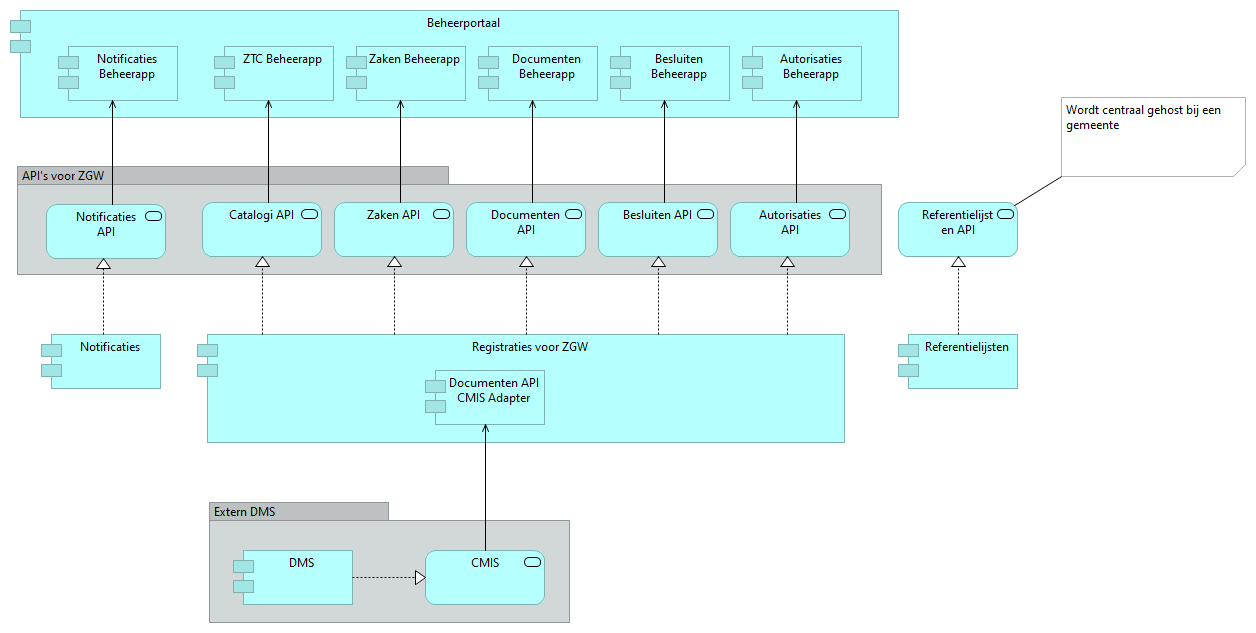
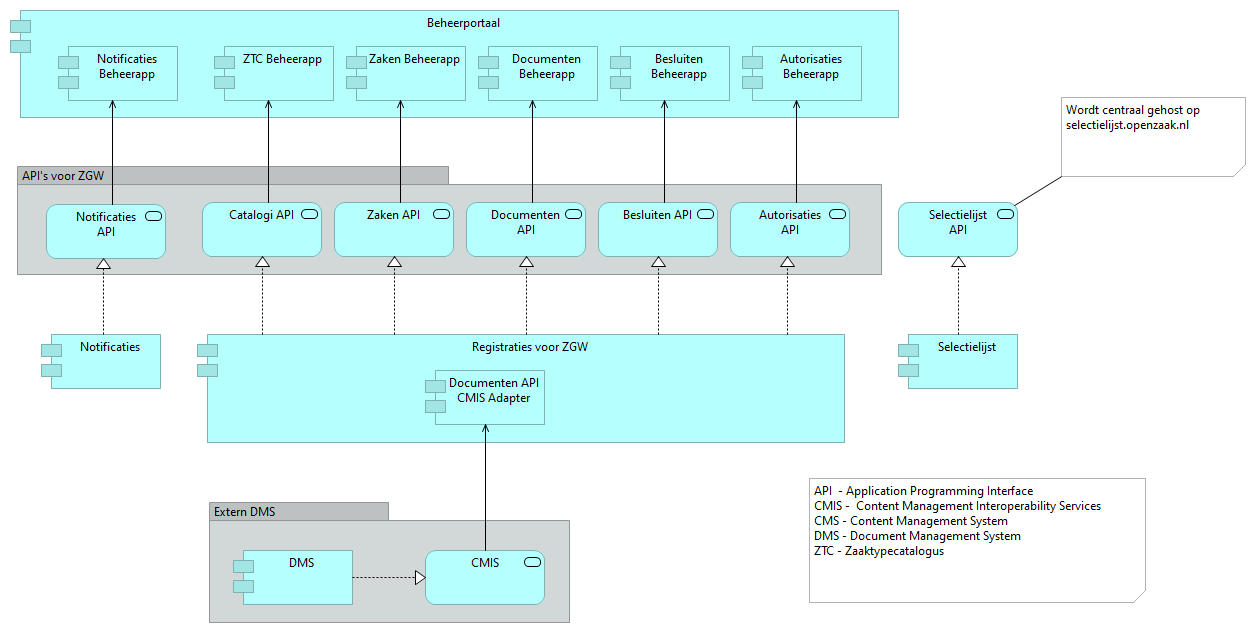
Processed review comments

diff --git a/README.rst b/README.rst
@@ -1,6 +1,7 @@
 =========
-OpenZaak - productiewaardige API's voor Zaakgericht Werken
+Open Zaak
 =========
+*Productiewaardige API's voor Zaakgericht Werken*
 
 :Version: 1.0.1
 :Source: https://github.com/open-zaak/open-zaak
@@ -12,7 +13,7 @@ OpenZaak - productiewaardige API's voor Zaakgericht Werken
 Deze repository bevat broncode en documentatie voor productiewaardige API's voor Zaakgericht Werken (ZGW). Deze API's volgen de standaard van VNG Realisatie "API's voor Zaakgericht Werken".
 
 Zaakgericht Werken
-=========
+==================
 
 Zaakgericht werken is een vorm van procesgericht werken die door de Nederlandse gemeenten, en steeds meer landelijke overheden, wordt toegepast om verzoeken van burgers en bedrijven te behandelen. De zaak staat hierbij centraal. Een zaak is een samenhangende hoeveelheid werk met een gedefinieerde aanleiding en een gedefinieerd resultaat waarvan kwaliteit en doorlooptijd bewaakt moeten worden. De API's voor Zaakgericht Werken ondersteunen de registratie van alle metadata en gegevens die komen kijken bij Zaakgericht Werken. Zie ook `Zaakgericht werken in het gemeentelijk gegevenslandschap`_.
 
@@ -20,7 +21,7 @@ Zaakgericht werken is een vorm van procesgericht werken die door de Nederlandse 
 
 
 Standaard "API's voor Zaakgericht Werken"
-=========
+=========================================
 
 In het kader van Common Ground heeft VNG Realisatie deze standaard ontwikkeld. Daarbij zijn tegelijk met API-specificaties referentie-implementaties gerealiseerd om aan te tonen dat de specificaties in software kunnen worden geïmplementeerd. De volgende inhoudelijke API's maken onderdeel uit van de standaard:
 
@@ -28,7 +29,7 @@ In het kader van Common Ground heeft VNG Realisatie deze standaard ontwikkeld. D
 * Zaken - voor de registratie van zaken. Zaken kunnen o.a. relaties hebben met documenten, besluiten, contacten. De API biedt functionaliteit voor audit trail en archiveren.
 * Documenten - voor de registratie van informatieobjecten, hetgeen zowel documenten als andere informatiedragers zoals foto's en film kunnen zijn.
 * Besluiten - voor de registratie van besluiten die in het kader van zaakgericht werken worden genomen.
-* Klantinteracties - deze API ondersteunt de registratie van Contactmomenten en Verzoeken. Verzoeken hebben een relatie met producten en diensten uit de Producten Diensten Catalogus (PDC) en kunnen leiden tot zaken. Deze API wordt op een later moment toegevoegd aan OpenZaak.
+* Klantinteracties - deze API ondersteunt de registratie van Contactmomenten en Verzoeken. Verzoeken hebben een relatie met producten en diensten uit de Producten Diensten Catalogus (PDC) en kunnen leiden tot zaken. Deze API wordt op een later moment toegevoegd aan Open Zaak.
 
 Daarnaast zijn er een paar generieke API's die nodig om gebruik te maken van deze API's:
 
@@ -36,55 +37,50 @@ Daarnaast zijn er een paar generieke API's die nodig om gebruik te maken van dez
 * Autorisaties - via de Autorisaties API wordt de toegang van applicaties tot gegevens geregeld.
 
 Productiewaardige API's
-==========
+=======================
 
 Bij de realisatie van productiewaardige API's is aandacht besteed aan een aantal belangrijke aspecten:
 
 * Beheer: er is een beheerportaal ingericht waarmee de verschillende API's door functioneel beheerders kunnen worden beheerd.
 * Performance: er zijn performance-metingen verricht op basis van schattingen van de verwachte belasting door applicaties die eindgebruikers gebruiken. Benodigde verbeteringen zijn doorgevoerd waardoor een belasting door 2000 eindgebruikers geen problemen zou moeten opleveren.
 * Documentatie van de componenten, met name van de beheer applicaties. (De inhoudelijke documentatie over de API's is onderdeel van de standaard.)
-* Uitrol: Om de uitrol naar servers te vereenvoudigen zijn er Docker containers en een Virtual Machine (VM) image beschikbaar. Dit zijn een soort componenten die gemakkelijk kunnen worden uitgerold op een server om ze vervolgens in gebruik te nemen. Hiermee kunnen gemeenten de API’s op eenvoudige wijze (laten) draaien bij een hostingpartij.
+* Uitrol: Om de uitrol naar servers te vereenvoudigen is er een Docker container beschikbaar. Dit zijn een soort componenten die gemakkelijk kunnen worden uitgerold op een server om ze vervolgens in gebruik te nemen. Hiermee kunnen gemeenten de API’s op eenvoudige wijze (laten) draaien bij een hostingpartij.
 
-Architectuur van OpenZaak
-===========
+Architectuur van Open Zaak
+==========================
 
-De architectuur van OpenZaak is gebaseerd op een beperkt aantal componenten. De belangrijkste component is de registratiecomponent die de API's voor ZGW aanbiedt. Daarnaast zijn er de volgende componenten:
+De architectuur van Open Zaak is gebaseerd op een beperkt aantal componenten. De belangrijkste component is de registratiecomponent die de API's voor ZGW aanbiedt. Daarnaast zijn er de volgende componenten:
 
-* Notificatie-component die Notificaties API aanbiedt
-* Referentielijsten component die wordt gebruikt om de selectielijst voor archiveren te ontsluiten
+* Notificatie-component, noodzakelijk voor de werking van Open Zaak.
+* Selectielijst component die wordt gebruikt om de VNG Selectielijst voor archiveren te ontsluiten
 * Beheerportaal dat toegang biedt tot de verschillende beheerapps die bij de API's horen
 
-.. image:: assets/openzaak-component-overview.png
+.. image:: docs/introduction/_assets/architecture.png
     :width: 100%
-    :alt: OpenZaak Componenten-overzicht
+    :alt: Open-Zaak Componenten-overzicht
 
 Implementatie
-=========
+=============
 
-Deze repository bevat de broncode voor de API's. Om gebruik te kunnen maken van de API's moeten deze ergens gehost worden als een service. Als onderdeel van de ontwikkelstraat worden bij elke nieuwe versie van OpenZaak containers voor Docker gecreëerd die direct kunnen worden uitgerold in een Kubernetes cluster. Ook wordt er een applicatie VM image gecreëerd. In een diagram ziet de hosting van in een Kubernetes cluster als volgt uit:
-
-.. image:: assets/openzaak-deployment.png
-    :width: 100%
-    :alt: OpenZaak Deployment
+Deze repository bevat de broncode voor de API's. Om gebruik te kunnen maken van de API's moeten deze ergens gehost worden als een service. Als onderdeel van de ontwikkelstraat worden bij elke nieuwe versie van Open Zaak een Docker container die direct kunnen worden uitgerold in een Kubernetes cluster.
 
 Links
 =====
 
-* `Standaard`_
+* `VNG Standaard API's voor Zaakgericht Werken`_
 * `Documentatie`_
 * `Docker Hub`_
 
 .. _`Documentatie`: https://open-zaak.readthedocs.io/en/latest/
 .. _`Docker Hub`: https://hub.docker.com/u/openzaak
-.. _`Standaard`: https://github.com/VNG-Realisatie/gemma-zaken
+.. _`VNG Standaard API's voor Zaakgericht Werken`: https://github.com/VNG-Realisatie/gemma-zaken
 
 Bouw
-========
+====
 
 Deze API's zijn ontwikkeld door `Maykin Media B.V.`_ in opdracht van Amsterdam,
-Rotterdam, Utrecht, Tilburg, Arnhem, Haarlem, 's-Hertogenbosch, Delft en Hoorn,
-Medemblik, Stede Broec, Drechteland, Enkhuizen (SED), onder regie van
-`Dimpact`_.
+Rotterdam, Utrecht, Tilburg, Arnhem, Haarlem, 's-Hertogenbosch, Delft en een coalitie
+van Hoorn, Medemblik, Stede Broec, Drechteland, Enkhuizen (SED), onder regie van `Dimpact`_.
 
 .. _Maykin Media B.V.: https://www.maykinmedia.nl
 .. _Dimpact: https://www.dimpact.nl
